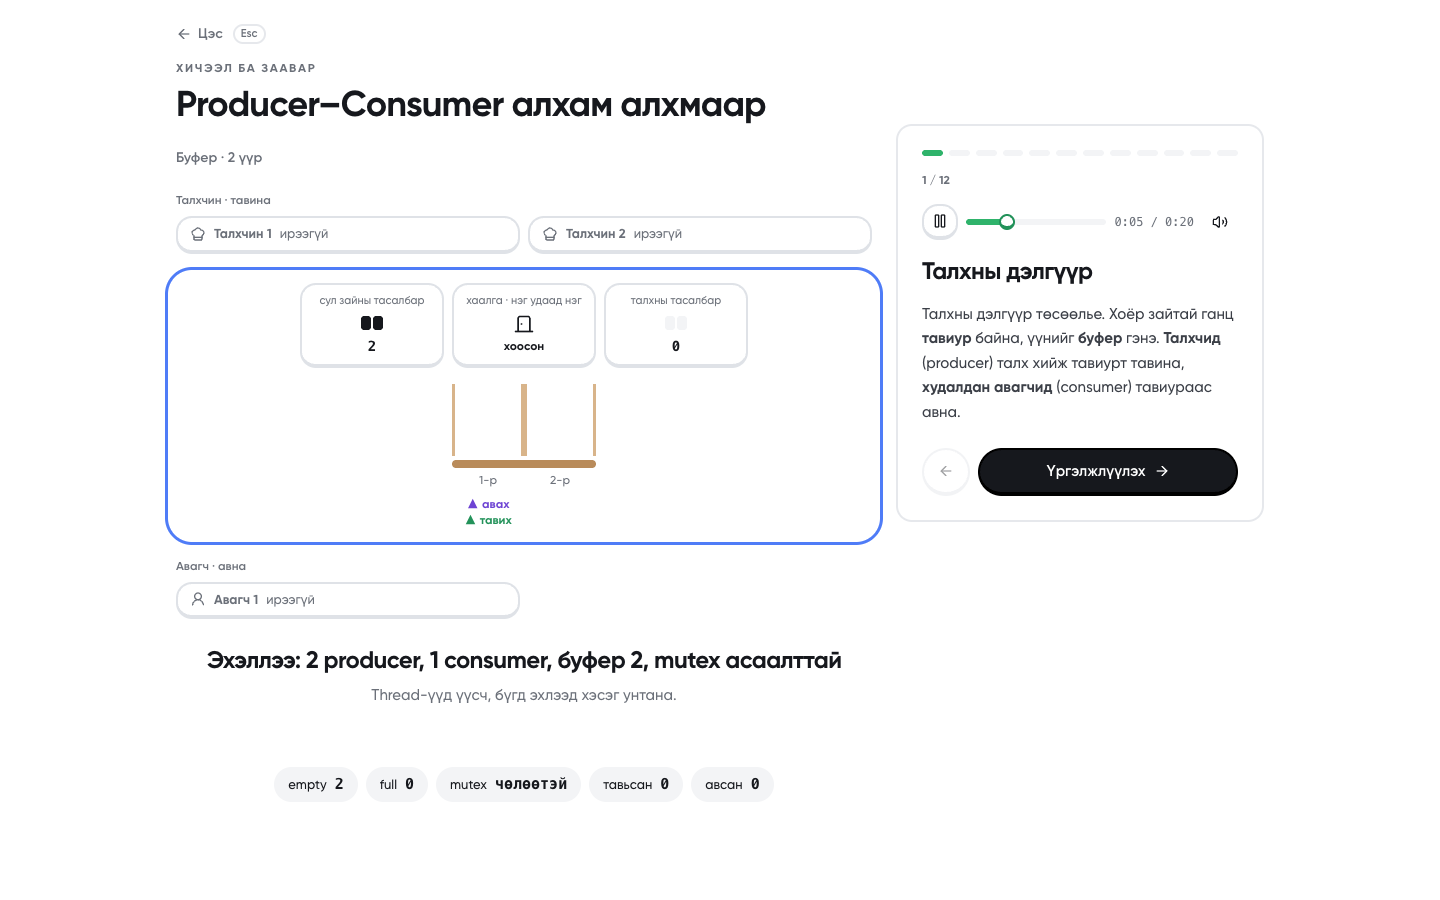
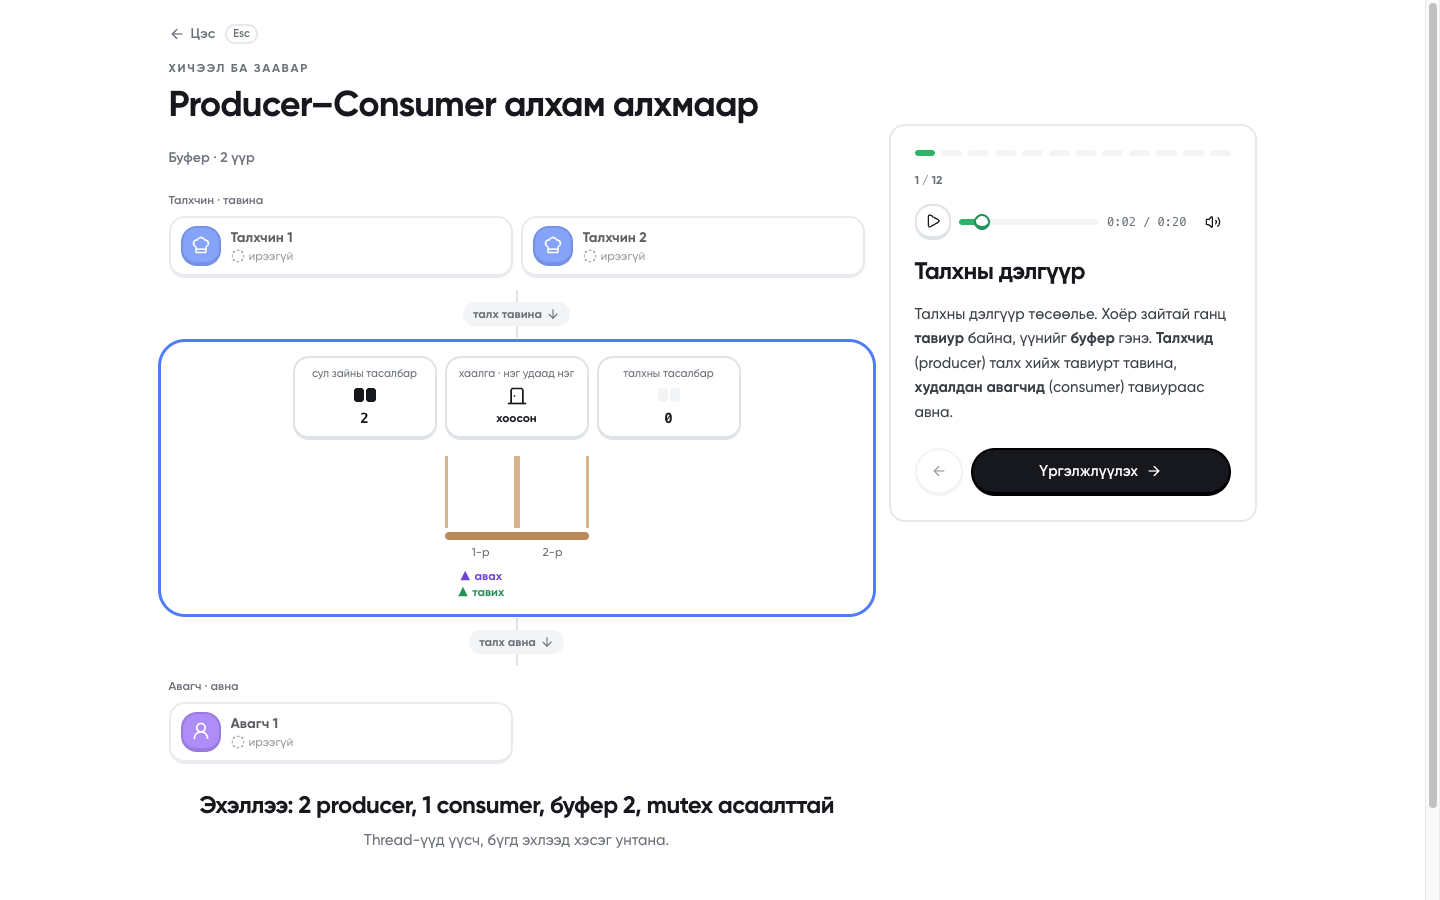
fix: actor cards and flow arrows on the stage
Thread chips become cards: role-coloured avatar, name, state icon and the
item in hand while putting or taking. Arrows between producers, buffer and
consumers light up on produce/consume and turn yellow while a side waits.

diff --git a/src/components/stage.tsx b/src/components/stage.tsx
@@ -1,7 +1,7 @@
 "use client"
 
 import { useEffect, useRef, useState, type ReactNode } from "react"
-import { ChefHatIcon, LockIcon, UserRoundIcon } from "lucide-react"
+import { ArrowDownIcon, ArrowRightIcon, ArrowRightLeftIcon, ChefHatIcon, CircleDashedIcon, HourglassIcon, LockIcon, MoonIcon, UserRoundIcon, type LucideIcon } from "lucide-react"
 import { Button } from "@/components/ui/button"
 import { ToggleGroup, ToggleGroupItem } from "@/components/ui/toggle-group"
 import { ArrayView, BakeryView, QueueView, snapAt } from "@/components/buffer-views"
@@ -59,6 +59,7 @@ const CHIP: Record<ThreadState["kind"], string> = {
   wait: "border-wait-border bg-wait text-wait-foreground",
   work: "",
 }
+const STATE_ICON: Record<ThreadState["kind"], LucideIcon> = { idle: CircleDashedIcon, sleep: MoonIcon, wait: HourglassIcon, work: ArrowRightLeftIcon }
 
 function Threads({ title, keys, states, owner, refs, consumer, bakery }: {
   title: string
@@ -70,33 +71,62 @@ function Threads({ title, keys, states, owner, refs, consumer, bakery }: {
   bakery: boolean
 }) {
   const dense = keys.length > 6
-  const work = consumer ? "border-consume-edge bg-consume text-white" : "border-now-edge bg-now text-white"
+  const role = consumer ? "border-consume-edge bg-consume text-white" : "border-produce-edge bg-produce text-white"
+  const busy = consumer ? "border-consume-edge bg-consume-soft" : "border-produce-edge bg-produce-soft"
   const Icon = consumer ? UserRoundIcon : ChefHatIcon
+  const name = (k: string) => (bakery ? bakeryName(k) : (consumer ? "Consumer " : "Producer ") + k.slice(1))
   return (
     <div className={cn("flex flex-col gap-2", consumer ? "@3xl:items-start" : "@3xl:items-end")}>
       <span className="text-xs font-semibold text-muted-foreground">{title}</span>
       {keys.length === 0 && <span className="text-xs text-muted-foreground">байхгүй</span>}
-      {/* Fixed columns on phones so every view wraps the chips into the same number of rows. */}
+      {/* Fixed columns on phones so every view wraps the cards into the same number of rows. */}
       <div className={cn("grid w-full gap-2", dense ? "grid-cols-4 @3xl:grid-cols-2" : "grid-cols-2 @3xl:flex @3xl:w-auto @3xl:flex-col")}>
         {keys.map((k) => {
           const s = states.get(k) ?? { kind: "idle" as const, text: "" }
-          const text = bakery ? bakeryText(s) : s.text
+          const text = bakery ? bakeryText(s) : s.text || "эхлээгүй"
+          const ref = (el: HTMLElement | null) => { if (el) refs.set(k, el); else refs.delete(k) }
+          if (dense)
+            return (
+              <div key={k} ref={ref} title={`${name(k)}: ${text}`} className={cn("tactile flex min-w-0 items-center justify-center rounded-xl px-2 py-1.5 text-[13px] font-bold transition-colors duration-150", s.kind === "work" ? role : CHIP[s.kind], owner === k && "outline-2 outline-offset-2 outline-foreground")}>
+                {k}
+              </div>
+            )
+          const State = STATE_ICON[s.kind]
+          const item = s.kind === "work" ? s.e?.item : undefined
           return (
+            // One card per thread: who (avatar in the role colour), what it is doing now, and the item in its hands.
             <div
               key={k}
-              ref={(el) => { if (el) refs.set(k, el); else refs.delete(k) }}
-              title={`${bakery ? bakeryName(k) : k}: ${text}`}
+              ref={ref}
+              title={`${name(k)}: ${text}`}
               className={cn(
-                "tactile flex min-w-0 items-center gap-2 rounded-xl px-3 py-1.5 text-[13px] transition-colors duration-150 motion-reduce:transition-none",
-                s.kind === "work" ? work : CHIP[s.kind],
+                "tactile flex min-w-0 items-center gap-2.5 rounded-2xl px-2.5 py-2 transition-[background-color,border-color,opacity,translate] duration-200 motion-reduce:transition-none @3xl:w-full @3xl:max-w-56",
+                s.kind === "work" ? cn(busy, "-translate-y-0.5") : CHIP[s.kind],
+                s.kind === "idle" && "opacity-70",
                 owner === k && "outline-2 outline-offset-2 outline-foreground",
-                !dense && (bakery ? "@3xl:w-52" : "@3xl:w-48"),
               )}
             >
-              {bakery && <Icon className="size-4 shrink-0" />}
-              <b className="shrink-0 whitespace-nowrap">{bakery && !dense ? bakeryName(k) : k}</b>
-              {!dense && <span className="truncate">{text}</span>}
-              {owner === k && <LockIcon className="ml-auto size-3.5 shrink-0" />}
+              <span className={cn("tactile flex size-10 shrink-0 items-center justify-center rounded-xl text-sm font-bold", role)}>
+                {bakery ? <Icon className="size-5" /> : k}
+              </span>
+              <span className="flex min-w-0 flex-1 flex-col">
+                <b className="truncate text-sm text-foreground">{name(k)}</b>
+                <span className="flex min-w-0 items-center gap-1 text-xs">
+                  <State className={cn("size-3.5 shrink-0", s.kind === "wait" && "animate-pulse")} />
+                  <span className="truncate">{text}</span>
+                </span>
+              </span>
+              {item !== undefined && (
+                <span
+                  className={cn(
+                    "flex shrink-0 animate-in items-center justify-center text-[11px] font-bold duration-200 zoom-in-50",
+                    bakery ? "h-6 w-8 rounded-t-full rounded-b-md bg-bread text-[#5a3a12] shadow-[inset_0_-3px_0_var(--bread-crust)]" : cn("size-7 rounded-full border-b-2", role),
+                  )}
+                >
+                  {item}
+                </span>
+              )}
+              {owner === k && <LockIcon className="size-3.5 shrink-0" />}
             </div>
           )
         })}
@@ -110,6 +140,29 @@ function Pill({ label, value, tone }: { label: string; value: ReactNode; tone?: 
     <span className={cn("flex items-center gap-2 rounded-full bg-muted px-3.5 py-1.5 text-[13px]", tone)}>
       {label} <b className="font-mono text-[15px] tabular-nums">{value}</b>
     </span>
+  )
+}
+
+// Arrow between a thread group and the buffer: lights up when that side puts/takes, turns yellow when it is blocked.
+function Flow({ label, e, side }: { label: string; e: CoreEvent | undefined; side: "produce" | "consume" }) {
+  const act = e?.ev === side
+  const blocked = e?.ev === (side === "produce" ? "wait_empty" : "wait_full")
+  const line = act ? (side === "produce" ? "bg-produce" : "bg-consume") : blocked ? "bg-wait-border" : "bg-edge"
+  return (
+    <div className="flex flex-col items-center @3xl:flex-row" aria-hidden>
+      <span className={cn("h-3 w-0.5 rounded-full transition-colors @3xl:h-0.5 @3xl:w-3", line)} />
+      <span
+        className={cn(
+          "flex items-center gap-1 rounded-full px-2.5 py-1 text-xs font-bold whitespace-nowrap transition-colors duration-150",
+          act ? (side === "produce" ? "bg-produce text-white" : "bg-consume text-white") : blocked ? "bg-wait text-wait-foreground" : "bg-muted text-muted-foreground",
+        )}
+      >
+        {act ? `${e.item} ${label}` : blocked ? "хүлээж байна" : label}
+        <ArrowDownIcon className="size-3.5 @3xl:hidden" />
+        <ArrowRightIcon className="hidden size-3.5 @3xl:block" />
+      </span>
+      <span className={cn("h-3 w-0.5 rounded-full transition-colors @3xl:h-0.5 @3xl:w-3", line)} />
+    </div>
   )
 }
 
@@ -210,14 +263,16 @@ export function Stage({ events, index, model, speed, onSeek, focus, view: fixedV
         {viewSwitch}
       </div>
 
-      <div className="grid gap-6 @3xl:grid-cols-[minmax(0,1fr)_minmax(0,2.2fr)_minmax(0,1fr)] @3xl:items-center">
+      <div className="grid gap-3 @3xl:grid-cols-[minmax(0,1fr)_auto_minmax(0,2.2fr)_auto_minmax(0,1fr)] @3xl:items-center @3xl:gap-2">
         <div className={cn(ring(focus === "producers"))}>
           <Threads title={bakery ? "Талхчин · тавина" : "Producer · тавина"} keys={keys.filter((k) => k.startsWith("P"))} states={states} owner={owner} refs={chips.current} bakery={bakery} />
         </div>
+        <Flow label={bakery ? "талх тавина" : "тавина"} e={current} side="produce" />
         {/* Fixed height so switching Массив / Хоолой / Талх does not move the page. */}
         <div className={cn("flex min-h-64 items-center justify-center", ring(focus === "buffer"))}>
           {view === "array" ? <ArrayView s={s} /> : view === "queue" ? <QueueView s={s} /> : <BakeryView s={s} />}
         </div>
+        <Flow label={bakery ? "талх авна" : "авна"} e={current} side="consume" />
         <div className={cn(ring(focus === "consumers"))}>
           <Threads title={bakery ? "Авагч · авна" : "Consumer · авна"} keys={keys.filter((k) => k.startsWith("C"))} states={states} owner={owner} refs={chips.current} consumer bakery={bakery} />
         </div>

diff --git a/docs/Manual.md b/docs/Manual.md
@@ -66,7 +66,9 @@ npm run dev
 - **Массив** (сурах бичгийн Figure 7.1 шиг): буфер = нүдний мөр (circular array). Цэнхэр нүдэнд item байна, саарал нүд хоосон, яг одоо хандсан нүд ногоон болж дээш өргөгдөнө (race бол улаан). **▲in** (ногоон) нь producer-ийн дараагийн тавих нүд, **▲out** (нил ягаан) нь consumer-ийн дараагийн авах нүд, хоёулаа гулсаж шилжинэ. Сүүлийн нүдний дараа [0] руу эргэж ирнэ.
 - **Хоолой** (FIFO): item зүүн талаас орж, баруун талаас гарна. Хамгийн баруун талынх нь хамгийн эрт орсон тул эхэлж авагдана. Тасархай тойрог = сул зай (`empty`), цэнхэр = item (`full`). Item бүрийн доор нүдний индекс бичигдэнэ.
 - **Талх** (видеоны жишээ): талхчин = producer, авагч = consumer, тавиур = буфер, "сул зайны тасалбар" = `empty`, "талхны тасалбар" = `full`, "нэг удаад нэг хүн" хаалга = mutex. Тайлбарын мөр энгийн үгээр гарна.
+- Thread бүр нэг карт: өнгөт avatar (producer цэнхэр, consumer ягаан), нэр, одоогийн төлөв icon-той (сар = унтаж, элсэн цаг = хүлээж). Тавьж/авч байх агшинд карт өргөгдөж, гартаа item-ийн дугаартай байна; mutex барьж буй thread цоожтой, хар хүрээтэй.
 - Item тавихад producer-оос нүд рүү бөмбөлөг нисэж очно, авахад нүднээс consumer руу нисэнэ.
+- Producer, буфер, consumer гурвын хооронд **тавина →** ба **авна →** сум байна (нарийн дэлгэц дээр ↓). Тавих/авах агшинд тухайн сум цэнхэр/ягаан болж item-ийн дугаарыг харуулна, тал нь хүлээж байвал шар "хүлээж байна" болно.
 - Буферийн доор том үсгээр одоогийн event, түүний доор "яагаад" гэсэн нэг мөр тайлбар (аль semaphore блоклосон, mutex-ийг хэн барьж байгаа) гарна. Доор нь `empty`, `full`, `mutex`, тавьсан, авсан тоо болон төгсгөлд invariant.
 - Thread chip: саарал = унтаж байна, шар = semaphore хүлээж байна, ногоон = producer буферт тавьж байна, нил ягаан = consumer авч байна, хар хүрээ + цоож = mutex эзэмшиж байна.
 
